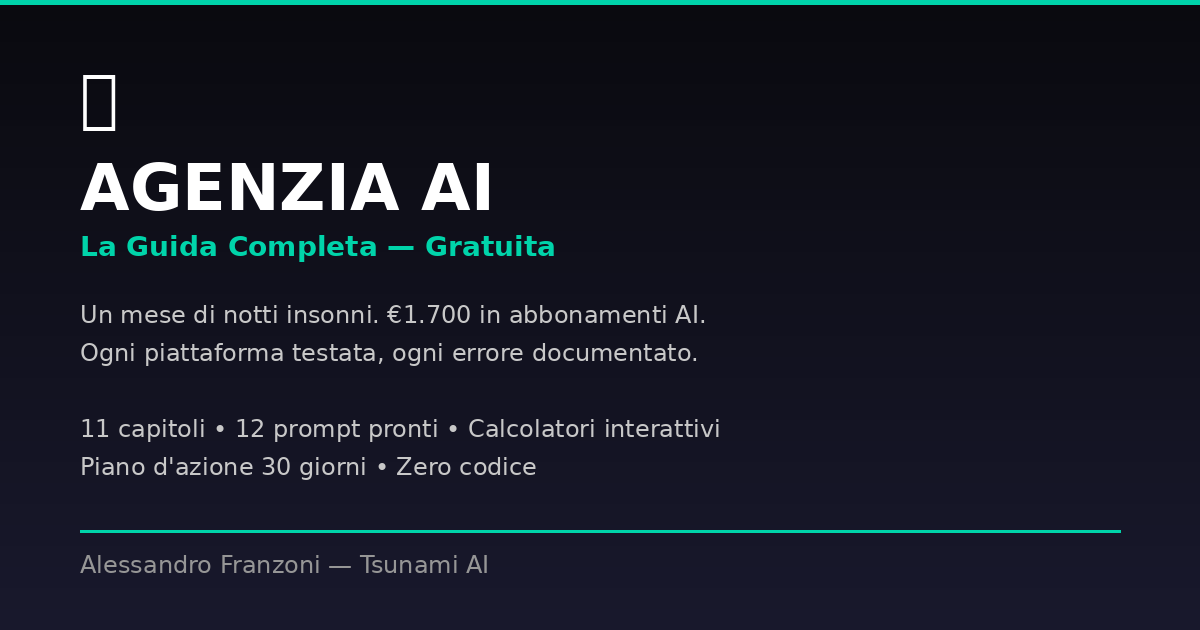
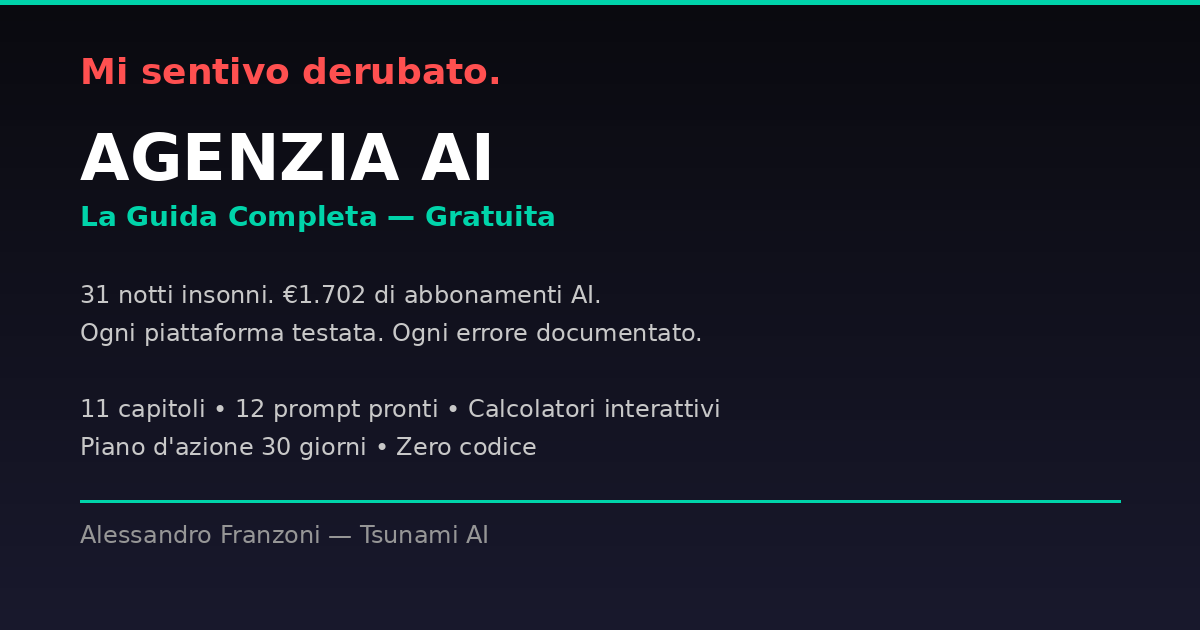
Hypnotic copy v1: Marchese techniques (Power Hook, Eroe Riluttante, Frame Precisione, Loop Aperto, Aiuto Disinteressato)

diff --git a/index.html b/index.html
@@ -3,11 +3,11 @@
 <head>
 <meta charset="UTF-8">
 <meta name="viewport" content="width=device-width, initial-scale=1.0">
-<meta name="description" content="Un mese di notti insonni e €1.700 in abbonamenti AI. Ho condensato tutto in una guida gratuita: 11 capitoli, 12 prompt pronti, calcolatori interattivi e un piano d'azione di 30 giorni. Zero codice.">
+<meta name="description" content="31 notti insonni e €1.702 in abbonamenti AI. Ho condensato tutto in una guida gratuita: 11 capitoli, 12 prompt pronti, calcolatori interattivi e un piano d'azione di 30 giorni. Zero codice.">
 
 <!-- Open Graph (Facebook, LinkedIn) -->
 <meta property="og:title" content="Agenzia AI — La Guida Completa (Gratuita)">
-<meta property="og:description" content="Un mese di notti insonni e €1.700 in abbonamenti AI per testare tutto. 11 capitoli, 12 prompt pronti, calcolatori interattivi. Costruisci il tuo team di agenti AI senza scrivere una riga di codice.">
+<meta property="og:description" content="31 notti insonni. €1.702 testati di tasca mia. 11 capitoli, 12 prompt pronti, calcolatori interattivi. Costruisci il tuo team di agenti AI senza scrivere una riga di codice.">
 <meta property="og:image" content="https://alessandrofranz78-web.github.io/guida-agenzia-ai/og-image.png">
 <meta property="og:image:width" content="1200">
 <meta property="og:image:height" content="630">
@@ -18,7 +18,7 @@
 <!-- Twitter Card -->
 <meta name="twitter:card" content="summary_large_image">
 <meta name="twitter:title" content="Agenzia AI — La Guida Completa (Gratuita)">
-<meta name="twitter:description" content="Un mese di notti insonni e €1.700 in abbonamenti AI. 11 capitoli, 12 prompt pronti, calcolatori interattivi. Zero codice.">
+<meta name="twitter:description" content="31 notti insonni. €1.702 in abbonamenti AI. 11 capitoli, 12 prompt pronti, calcolatori interattivi. Zero codice.">
 <meta name="twitter:image" content="https://alessandrofranz78-web.github.io/guida-agenzia-ai/og-image.png">
 
 <title>AGENZIA AI — La Guida Completa | Alessandro Franzoni</title>
@@ -436,12 +436,15 @@ body.gated { overflow: hidden; }
     <div style="font-size:3rem;margin-bottom:1rem;">🌊</div>
     <h1 style="font-family:'Playfair Display',serif;font-size:2.2rem;font-weight:900;margin-bottom:.5rem;background:linear-gradient(135deg,#fff,var(--accent));-webkit-background-clip:text;-webkit-text-fill-color:transparent;">AGENZIA AI</h1>
     <p style="color:var(--accent);font-size:1rem;font-weight:700;letter-spacing:2px;text-transform:uppercase;margin-bottom:1.5rem;">La Guida Completa</p>
-    <p style="color:var(--text2);font-size:.95rem;line-height:1.7;margin-bottom:1.5rem;">Un mese di notti insonni. €1.700 in abbonamenti AI. Ogni piattaforma testata, ogni errore documentato.<br><br>Ho condensato tutto in una guida gratuita: <strong style="color:var(--text);">11 capitoli, 12 prompt pronti, calcolatori interattivi</strong> e un piano d'azione di 30 giorni per costruire il tuo team di agenti AI. Senza scrivere una riga di codice.</p>
 
-    <!-- STEP 1: SHARE -->
+    <!-- HOOK + STORY (Power Hook + Eroe Riluttante + Frame Precisione) -->
+    <p style="color:var(--text);font-size:1.15rem;font-weight:700;margin-bottom:.8rem;">Mi sentivo derubato.</p>
+    <p style="color:var(--text2);font-size:.93rem;line-height:1.8;margin-bottom:1.5rem;">31 notti insonni. €1.702 di abbonamenti AI testati di tasca mia. Ogni piattaforma provata, ogni errore documentato, ogni scorciatoia pagata con tempo e frustrazione.<br><br>Non sono un formatore AI. Sono un imprenditore come te che gestiva 8 progetti da solo, senza dormire. Poi ho scoperto come costruire un <strong style="color:var(--text);">intero team di agenti intelligenti senza scrivere una riga di codice.</strong><br><br>Ho condensato tutto in <strong style="color:var(--accent);">11 capitoli, 12 prompt pronti e un piano d'azione di 30 giorni.</strong> Le agenzie ti farebbero pagare migliaia di euro per queste informazioni. Io te le regalo.</p>
+
+    <!-- STEP 1: SHARE (Frame Bianco-Nero + Aiuto Disinteressato) -->
     <div id="gate-share" style="margin-bottom:1.5rem;">
-      <p style="color:var(--text);font-size:1.05rem;font-weight:700;margin-bottom:.5rem;">Questa guida è gratis. L'unico prezzo è un post.</p>
-      <p style="color:var(--text3);font-size:.85rem;margin-bottom:1.2rem;">Condividila sul tuo profilo e sbloccala subito. Qualcuno nella tua rete ne ha bisogno.</p>
+      <p style="color:var(--text);font-size:1.05rem;font-weight:700;margin-bottom:.5rem;">Questa guida è gratis. Ti chiedo solo un post.</p>
+      <p style="color:var(--text3);font-size:.85rem;margin-bottom:1.2rem;line-height:1.6;">Condividila e sbloccala subito. Qualcuno nella tua rete sta lavorando 60 ore a settimana senza sapere che esiste un'alternativa. Faglielo sapere.</p>
       <div style="display:flex;justify-content:center;gap:1rem;flex-wrap:wrap;">
         <button onclick="shareAndUnlock('facebook')" style="background:#1877F2;color:#fff;border:none;padding:.75rem 1.8rem;border-radius:8px;font-size:1rem;font-weight:700;cursor:pointer;display:flex;align-items:center;gap:8px;transition:all .2s;">📘 Condividi su Facebook</button>
         <button onclick="shareAndUnlock('linkedin')" style="background:#0A66C2;color:#fff;border:none;padding:.75rem 1.8rem;border-radius:8px;font-size:1rem;font-weight:700;cursor:pointer;display:flex;align-items:center;gap:8px;transition:all .2s;">💼 Condividi su LinkedIn</button>
@@ -1678,7 +1681,7 @@ const WEBHOOK_URL = 'https://n8n-pacc.srv1478295.hstgr.cloud/webhook/guida-lead'
 // Il webhook riceverà: { name, email, source: "guida-agenzia-ai", timestamp }
 
 const SHARE_URL = 'https://alessandrofranz78-web.github.io/guida-agenzia-ai/';
-const SHARE_TEXT = 'Un imprenditore ha speso un mese di notti insonni e €1.700 in abbonamenti AI per testare tutto. Poi ha messo tutto in una guida gratuita: 11 capitoli, 12 prompt pronti, calcolatori interattivi. Zero codice, 100% operativa.';
+const SHARE_TEXT = 'Un imprenditore ha passato 31 notti insonni e speso €1.702 testando ogni AI sul mercato. Poi ha messo tutto in una guida gratuita di 11 capitoli. Il capitolo 3 da solo vale il prezzo di un corso. Zero codice, zero fuffa — solo quello che funziona davvero.';
 
 function shareAndUnlock(platform) {
   let url = '';
